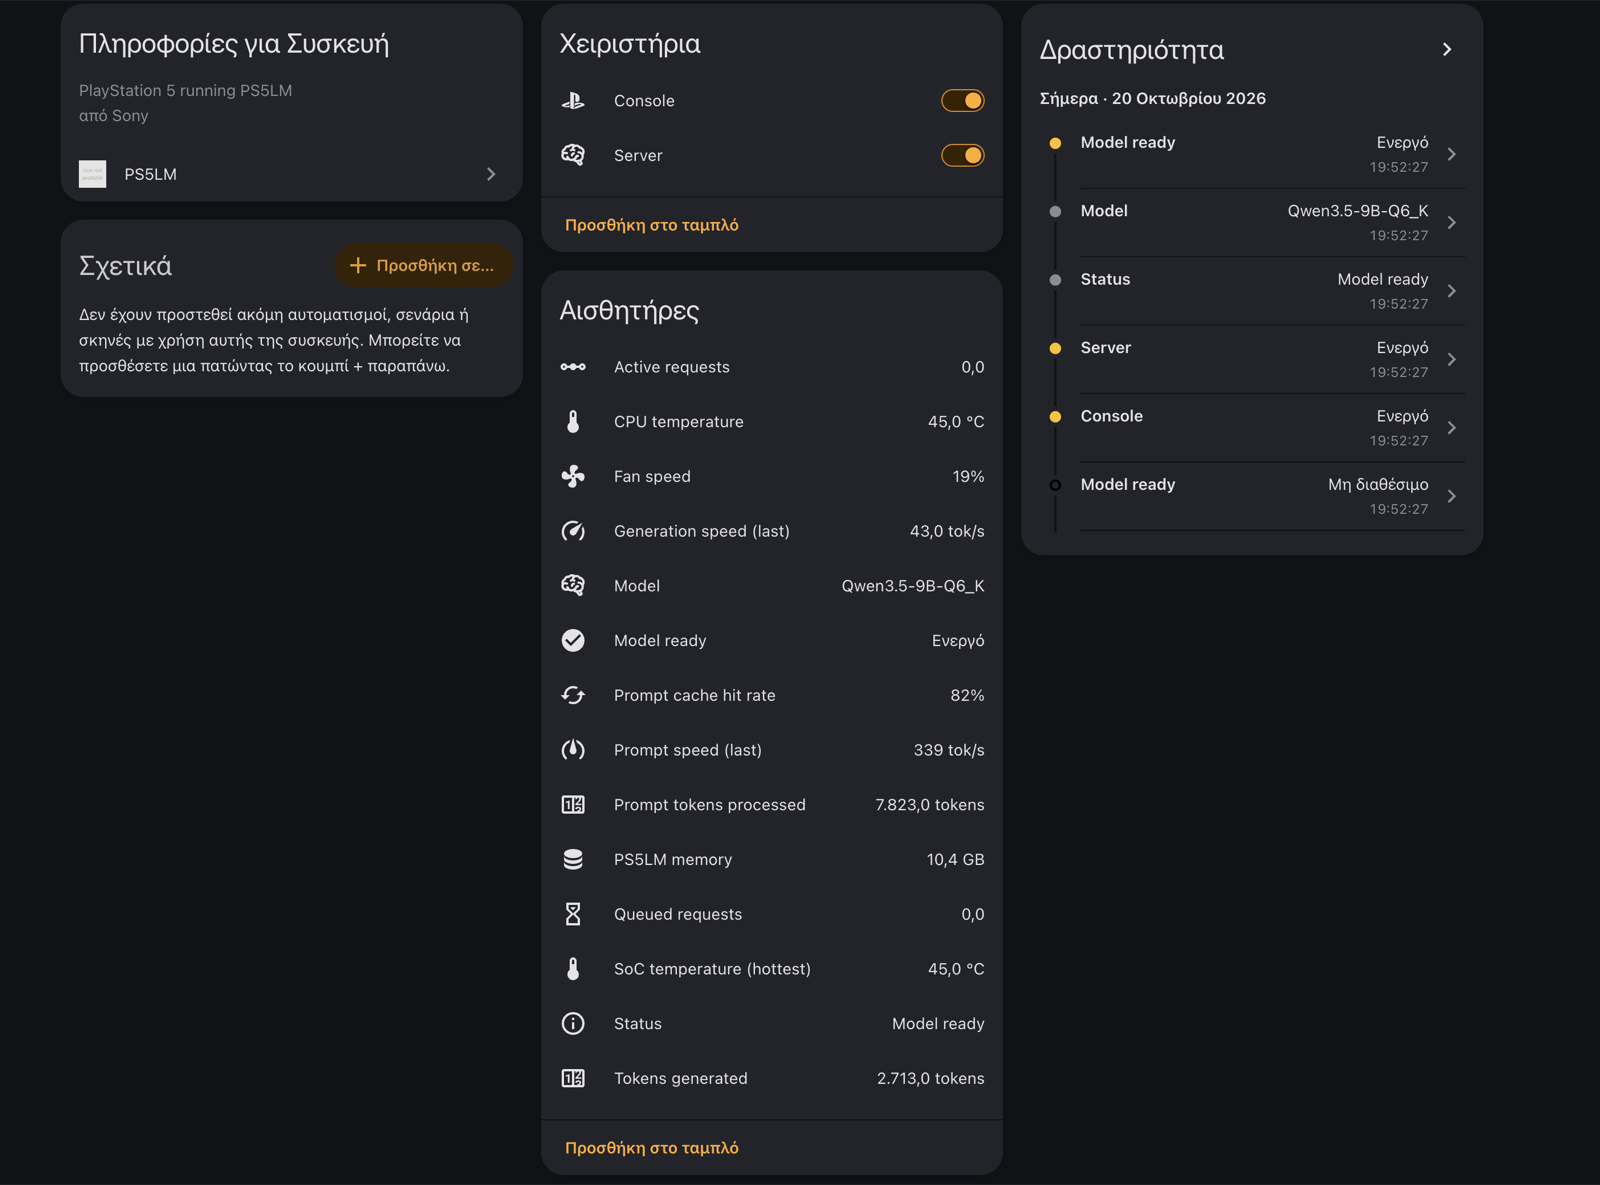
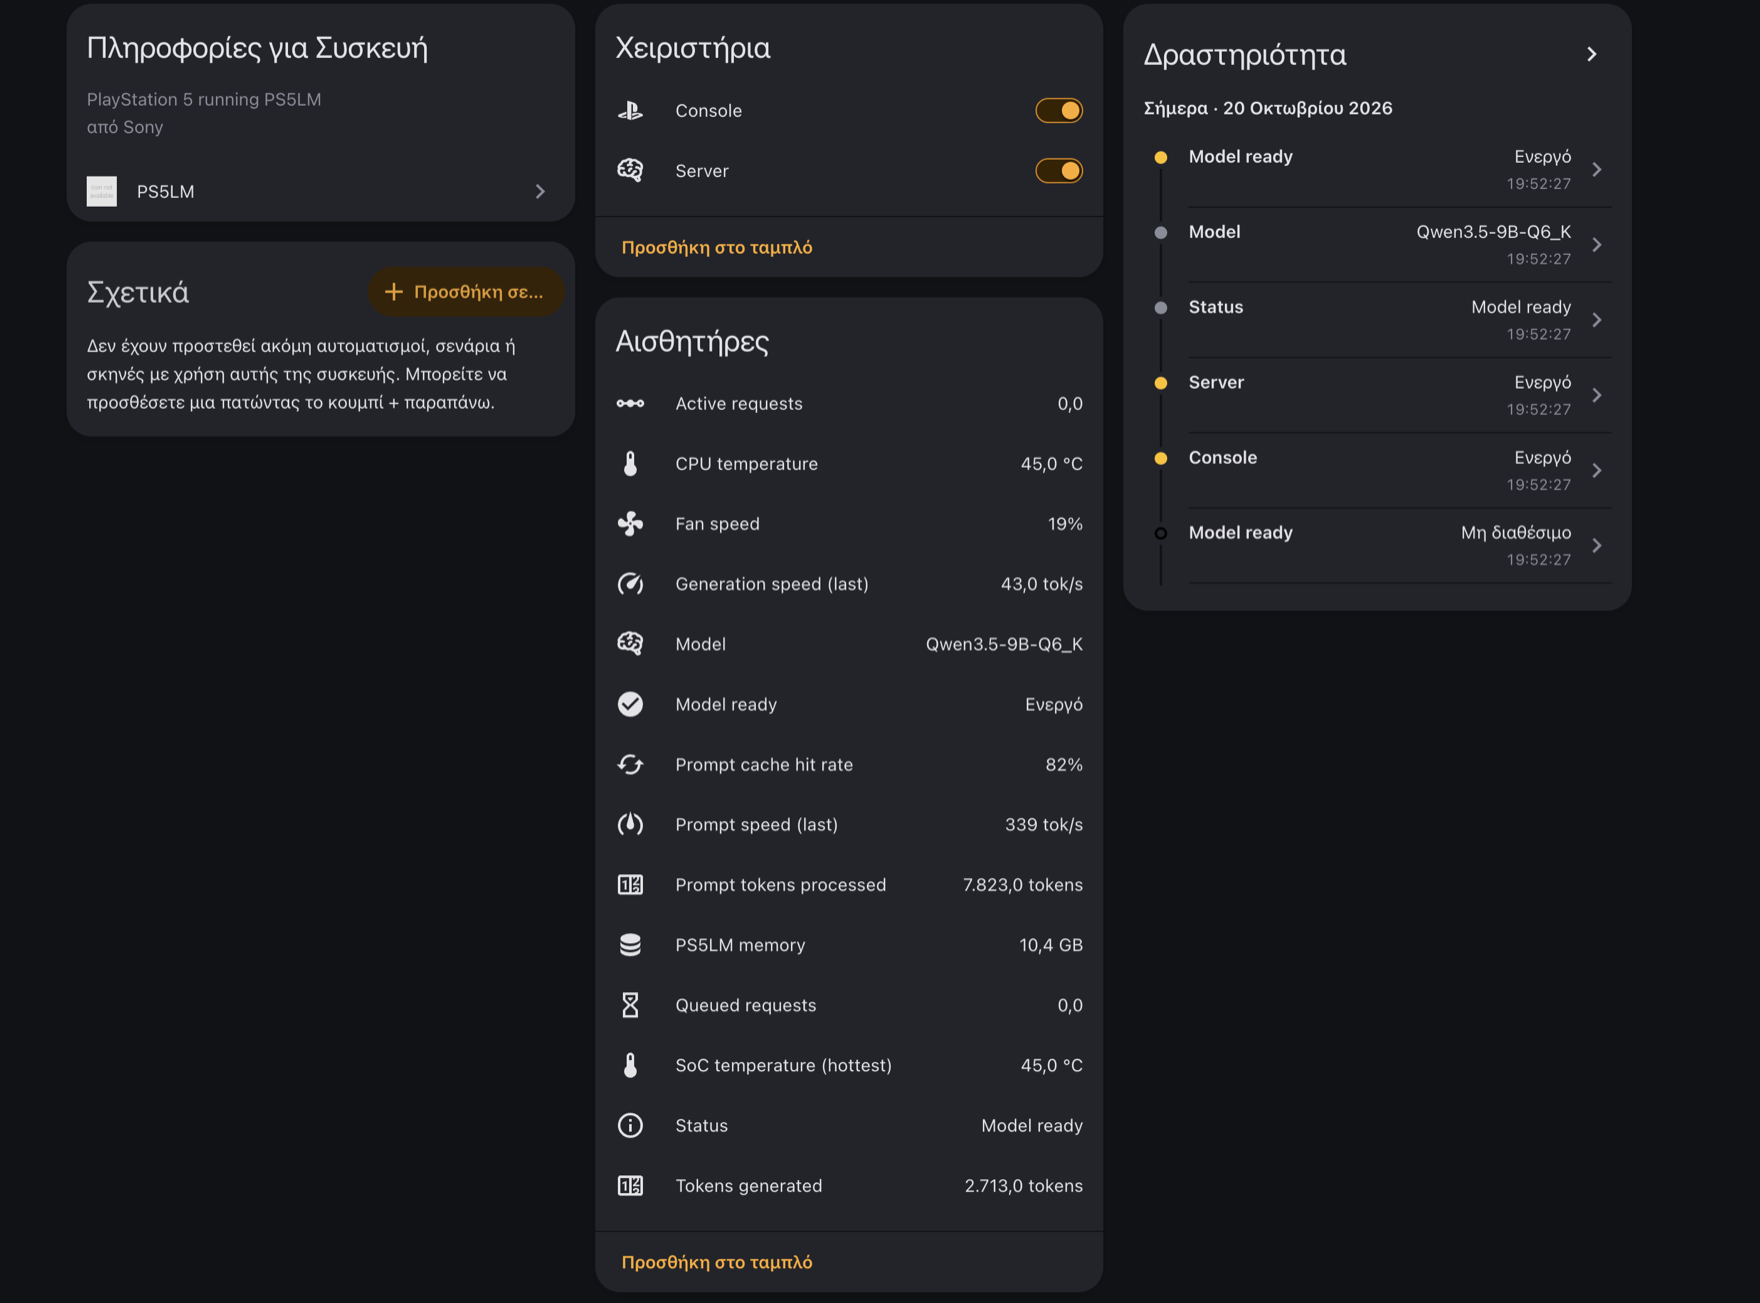
docs: full-resolution README images, shown at half size so they stay sharp on retina screens

Changed region(s): [[0.0625, 0.281, 0.1562, 0.3122], [0.25, 0.281, 0.2812, 0.3122], [0.1875, 0.281, 0.2188, 0.3122]]

diff --git a/README.md b/README.md
@@ -2,7 +2,7 @@
 [![Validate with hassfest Action](https://github.com/phoinixgrr/ps5lm_ha/actions/workflows/hassfest-validation.yaml/badge.svg)](https://github.com/phoinixgrr/ps5lm_ha/actions/workflows/hassfest-validation.yaml)
 [![Tests](https://github.com/phoinixgrr/ps5lm_ha/actions/workflows/tests.yml/badge.svg)](https://github.com/phoinixgrr/ps5lm_ha/actions/workflows/tests.yml)
 
-# ![PS5LM for Home Assistant](images/logo.png)
+<h1><img src="https://raw.githubusercontent.com/phoinixgrr/ps5lm_ha/main/images/logo.png" alt="PS5LM for Home Assistant" width="520"></h1>
 
 On-demand local LLM inference on a PS5.
 
@@ -44,7 +44,7 @@ Manual: copy `custom_components/ps5_launcher/` to your `custom_components/` and 
 1. Get the Remote Play keys from chiaki-ng: `python3 tools/chiaki_keys.py`
 2. **Settings > Devices & Services > Add Integration > PS5LM**: enter the PS5 host and the two keys
 
-   ![Setup](images/setup.png)
+   <img src="https://raw.githubusercontent.com/phoinixgrr/ps5lm_ha/main/images/setup.png" alt="Setup" width="440">
 
 3. The second screen has defaults for everything; change them only if your setup differs
 
@@ -60,7 +60,7 @@ Manual: copy `custom_components/ps5_launcher/` to your `custom_components/` and 
 
 Everything except the host can be changed later under **Configure**.
 
-![Settings](images/settings.png)
+<img src="https://raw.githubusercontent.com/phoinixgrr/ps5lm_ha/main/images/settings.png" alt="Settings" width="440">
 
 ## Entities
 
@@ -73,7 +73,7 @@ Everything except the host can be changed later under **Configure**.
 | Model metrics | model, context size, generation and prompt speed, active and queued requests, token counters, prompt cache hit rate |
 | Console metrics | CPU and SoC temperature, fan speed, PS5LM memory, uptime, free space |
 
-![Metrics and diagnostics](images/diagnostics.png)
+<img src="https://raw.githubusercontent.com/phoinixgrr/ps5lm_ha/main/images/diagnostics.png" alt="Metrics and diagnostics" width="420">
 
 Services: `ps5_launcher.wake`, `ps5_launcher.standby`, `ps5_launcher.start_app`, `ps5_launcher.stop_app`.
 
